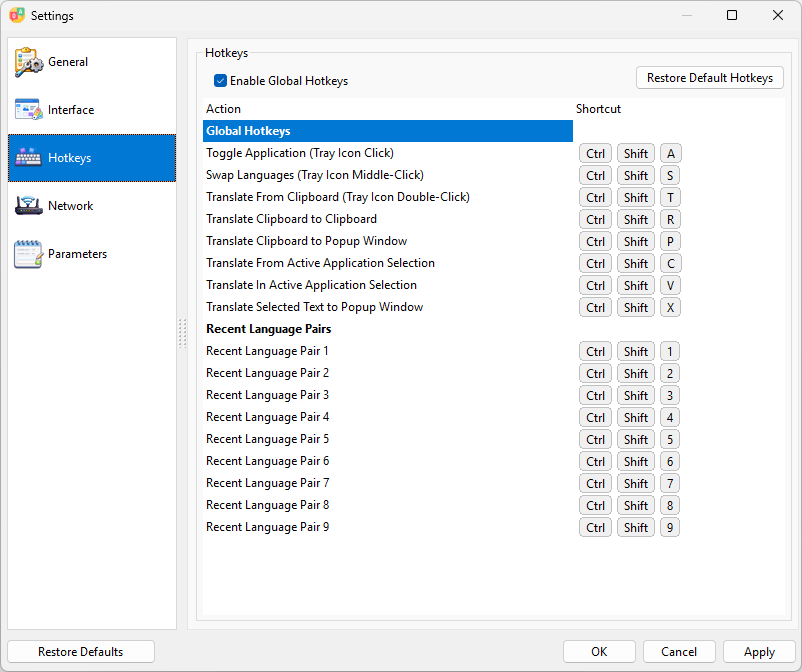
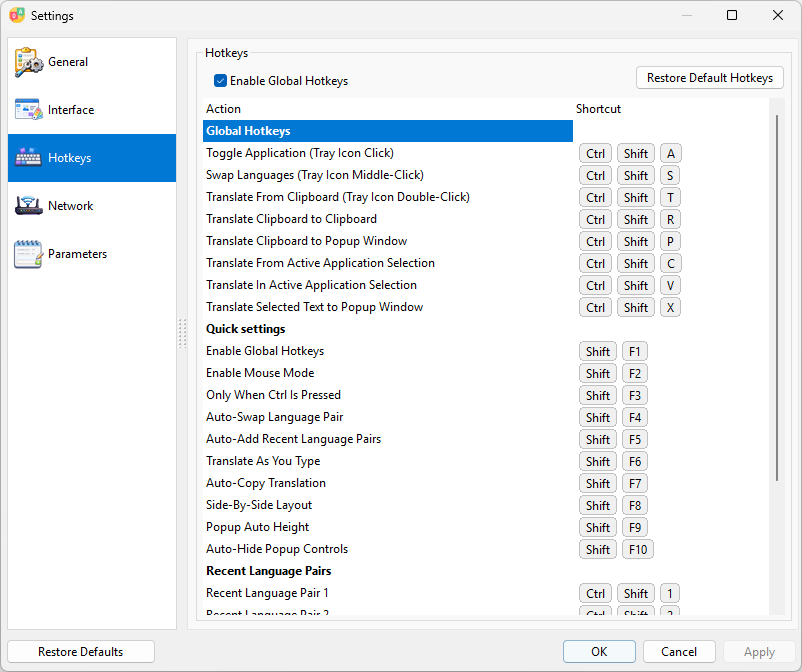
Update README.md

diff --git a/README.md b/README.md
@@ -114,7 +114,7 @@ Global hotkeys can be fully configured in the application settings. They are ava
 
 | Action | Shortcut |
 |--------|----------|
-| **Global Hotkeys** | |
+| **Translate Hotkeys** | |
 | Shows or hides the main application window | <kbd>Ctrl</kbd> + <kbd>Shift</kbd> + <kbd>A</kbd> |
 | Swaps the source and target languages | <kbd>Ctrl</kbd> + <kbd>Shift</kbd> + <kbd>S</kbd> |
 | Translates the current text from the clipboard | <kbd>Ctrl</kbd> + <kbd>Shift</kbd> + <kbd>T</kbd> |
@@ -123,6 +123,17 @@ Global hotkeys can be fully configured in the application settings. They are ava
 | Translates the selected text from the active application | <kbd>Ctrl</kbd> + <kbd>Shift</kbd> + <kbd>C</kbd> |
 | Replaces the selected text in the active application with the translation | <kbd>Ctrl</kbd> + <kbd>Shift</kbd> + <kbd>V</kbd> |
 | Translates selected text from the active application to a popup window | <kbd>Ctrl</kbd> + <kbd>Shift</kbd> + <kbd>X</kbd> |
+| **Quick Settings Hotkeys** | |
+| Enable or disable all global hotkeys | <kbd>Shift</kbd> + <kbd>F1</kbd> |
+| Toggle mouse translation mode | <kbd>Shift</kbd> + <kbd>F2</kbd> |
+| Mouse mode requires Ctrl key to be held | <kbd>Shift</kbd> + <kbd>F3</kbd> |
+| Automatically swap the language pair direction | <kbd>Shift</kbd> + <kbd>F4</kbd> |
+| Auto-add recent language pairs for quick access | <kbd>Shift</kbd> + <kbd>F5</kbd> |
+| Translate text as you type in the popup | <kbd>Shift</kbd> + <kbd>F6</kbd> |
+| Automatically copy translation to clipboard | <kbd>Shift</kbd> + <kbd>F7</kbd> |
+| Switch between vertical and horizontal layout | <kbd>Shift</kbd> + <kbd>F8</kbd> |
+| Adjust popup height to content automatically | <kbd>Shift</kbd> + <kbd>F9</kbd> |
+| Hide popup controls when not hovering | <kbd>Shift</kbd> + <kbd>F10</kbd> |
 | **Recent Language Pair Hotkeys** | |
 | Select recent language pair 1 | <kbd>Ctrl</kbd> + <kbd>Shift</kbd> + <kbd>1</kbd> |
 | Select recent language pair 2 | <kbd>Ctrl</kbd> + <kbd>Shift</kbd> + <kbd>2</kbd> |
@@ -136,7 +147,7 @@ Global hotkeys can be fully configured in the application settings. They are ava
 | **Main Window Hotkeys** | |
 | New Translate | <kbd>Ctrl</kbd> + <kbd>N</kbd> |
 | Add Current Pair To Recent Panel | <kbd>Ctrl</kbd> + <kbd>F</kbd> |
-| Translate | <kbd>Ctrl</kbd> + <kbd>Enter</kbd><br><kbd>Shift</kbd> + <kbd>Enter</kbd><br><kbd>Double Enter</kbd> |
+| Translate | <kbd>Ctrl</kbd> + <kbd>Enter</kbd><br><kbd>Shift</kbd> + <kbd>Enter</kbd><br><kbd>Triple Enter</kbd> |
 
 ---
 
